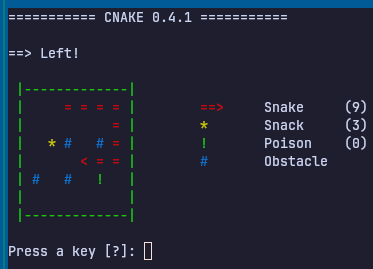
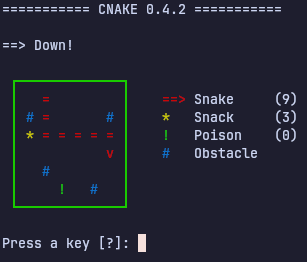
Minor Cnake improvements (border chars, Ctrl-C, ...)

diff --git a/cnake.c b/cnake.c
@@ -1,9 +1,9 @@
-/************************************************************
- * File:    cnake.c                                         *
- * Date:    2014-10-16 - 27.12.2014-12-27 (2026-07-21)      *
- * Author:  Aaron Dettmann                                  *
- * Purpose: Cnake - Primitive ASCII snake game written in C *
- ************************************************************/
+/*****************************************************************
+ * File:    cnake.c                                              *
+ * Date:    2014-10-16 - 2014-12-27 (updated 2026-07-29)         *
+ * Author:  Aaron Dettmann                                       *
+ * Purpose: Cnake - Primitive text-based snake game written in C *
+ *****************************************************************/
 
 #include <ctype.h>
 #include <errno.h>
@@ -18,7 +18,7 @@
 #include <unistd.h>
 
 /*---------- Version ----------*/
-#define VERSION "0.4.1"
+#define VERSION "0.4.2"
 #define DEFAULT_BOARD_SIZE 6
 #define MIN_BOARD_SIZE 4
 #define MAX_BOARD_SIZE 10
@@ -94,7 +94,7 @@ int read_stdin_char(char *, int);
 void discard_escape_sequence(void);
 int read_command(char *);
 void print_header(void);
-void draw_border(int board_size);
+void draw_border(int board_size, bool bottom);
 void draw_game_board(const int *, int, char, char, char, char, char, char,
                      const int[3], int, int);
 void print_game_status_message(enum game_status, char, char, char);
@@ -176,8 +176,14 @@ int main(int argc, char *argv[]) {
     do {
       printf("Choose the board size [%d-%d] (default: %d): ", MIN_BOARD_SIZE,
              MAX_BOARD_SIZE, DEFAULT_BOARD_SIZE);
-      if (!fgets(board_size_input, sizeof(board_size_input), stdin))
+      if (!fgets(board_size_input, sizeof(board_size_input), stdin)) {
+        if (interrupted) {
+          putchar('\n');
+          return 128 + interrupted;
+        }
+
         return EXIT_INPUT_ERROR;
+      }
 
       newline = strchr(board_size_input, '\n');
       if (newline == NULL)
@@ -451,15 +457,21 @@ void print_header(void) {
 }
 
 /*---------- Draw Outer Board Border ----------*/
-void draw_border(int board_size) {
+/*
+  Alternative pure ASCII border chars:
+  +--+
+  |  |
+  +--+
+*/
+void draw_border(int board_size, bool bottom) {
   int n;
 
-  printf(GRN " |");
+  printf(GRN " %s", bottom ? "└" : "┌");
 
   for (n = 0; n <= 2 * board_size; n++)
-    printf("-");
+    printf("─");
 
-  printf("|\n" RES);
+  printf("%s\n" RES, bottom ? "┘" : "┐");
 }
 
 /*---------- Draw the Game Board ----------*/
@@ -468,10 +480,10 @@ void draw_game_board(const int *board, int board_size, char terra, char body,
                      const int stats[3], int length, int show) {
   int i, j, tile_value;
 
-  draw_border(board_size);
+  draw_border(board_size, false);
 
   for (i = 0; i < board_size; i++) {
-    printf(GRN " | ");
+    printf(GRN " │ ");
 
     for (j = 0; j < board_size; j++) {
       tile_value = board_tile(board, board_size, j, i);
@@ -490,7 +502,7 @@ void draw_game_board(const int *board, int board_size, char terra, char body,
         printf(GRN "%c ", poison);
     }
 
-    printf(GRN "|\t");
+    printf(GRN "│    ");
 
     if (i == 0)
       printf(RED "%c%c>\t" RES "Snake     (%d)", body, body, length);
@@ -504,7 +516,7 @@ void draw_game_board(const int *board, int board_size, char terra, char body,
     printf(RES "\n");
   }
 
-  draw_border(board_size);
+  draw_border(board_size, true);
 
   if (show) {
     printf("\n");
@@ -540,7 +552,7 @@ void print_game_status_message(enum game_status game_status, char body,
 
 /*---------- Help ----------*/
 void help(void) {
-  printf("\nKeys (vim-style):\n"
+  printf("\n\nKeys (vim-style):\n"
          "h: move left\n"
          "j: move down\n"
          "k: move up\n"
